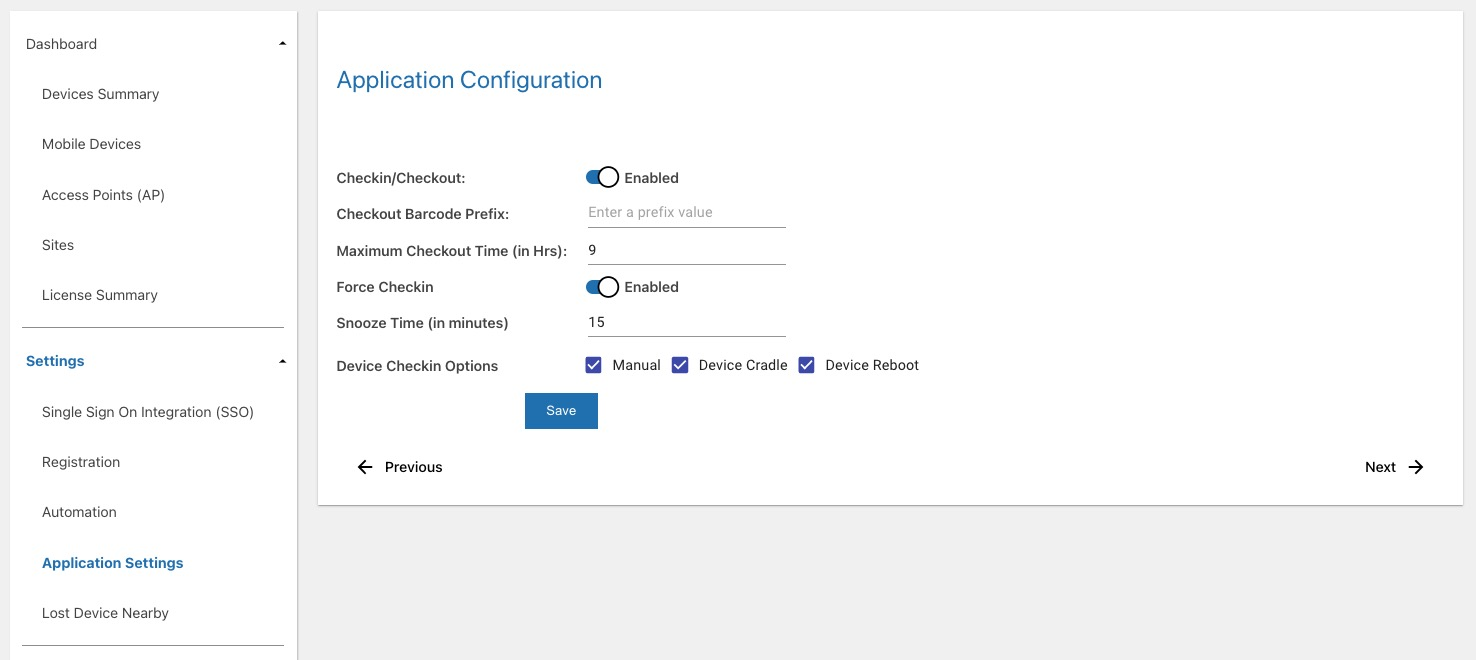
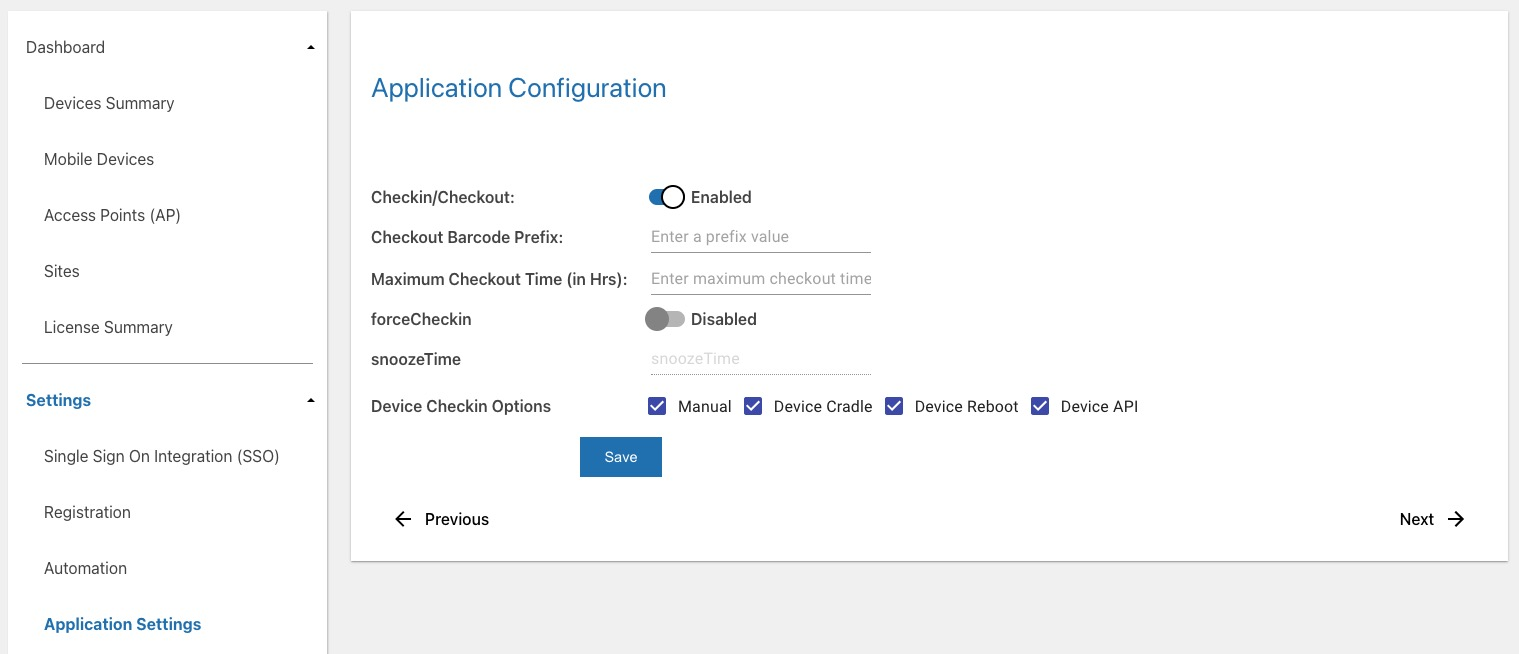
[DLM-24820/DLM-24709] DTRK 5.3 GA - Checkin API & SSO

diff --git a/devicetracker/5-3/guide/config/index.html b/devicetracker/5-3/guide/config/index.html
@@ -376,11 +376,11 @@
 
 <p>Optionally, integrate single sign-on (SSO) in Device Tracker and map SSO roles to access the Device Tracker dashboards on the web portal and device to authenticate manager and administrators with their corporate SSO login credentials. In conjunction, Enterprise Login Screen can be used to control device access and checkout the device using corporate SSO login credentials for accountability. </p>
 
-<p>There are 3 different levels of Device Tracker access based on user role: administrator, manager, or associate. SSO activation allows administrators and managers to login to Device Tracker with their SSO credentials and gain access to their respective <a href="../dashboard">dashboards</a> on the device and web portal. For other users, there is no change in Device Tracker client app access when logging in with their SSO credentials - after logging in, the <a href="../use/#markdevicetofind">To Be Found</a> screen is seen when the client app is launched. SSO credentials are <em>not</em> used for user accountability, only for user authentication to gain device access. <strong><em>Only OAuth 2.0 with PKCE or Mutual-TLS is supported for SSO integration.</em></strong><!-- **_Only OAuth 2.0 using Mutual-TLS client certificates for client authentication is supported for SSO integration._** --></p>
+<p>There are 3 different levels of Device Tracker access based on user role: administrator, manager, or associate. SSO activation allows administrators and managers to login to Device Tracker with their SSO credentials and gain access to their respective <a href="../dashboard">dashboards</a> on the device and web portal. For other users, there is no change in Device Tracker client app access when logging in with their SSO credentials - after logging in, the <a href="../use/#markdevicetofind">To Be Found</a> screen is seen when the client app is launched. SSO credentials are <em>not</em> used for user accountability, only for user authentication to gain device access. </p>
 
 <p><strong>To enforce user accountability and prevent device access until the user logs in with their SSO credentials, install <a href="#enterpriseloginscreenels">Enterprise Login Screen (ELS).</a></strong> User accountability associates the user to the device based on login so the administrator can track device ownership.</p>
 
-<p>When SSO is integrated, by default it uses OAuth 2.0 with PKCE. For integration with Mutual-TLS client certificates, see <a href="#mutualtlscertificategenerationdeployment">Mutual-TLS Certificate Generation &amp; Deployment</a>.</p>
+<p><strong><em>Only OAuth 2.0 with PKCE or Mutual-TLS is supported for SSO integration.</em></strong> When SSO is integrated, by default it uses OAuth 2.0 with PKCE. For integration with Mutual-TLS client certificates, see <a href="#mutualtlscertificategenerationdeployment">Mutual-TLS Certificate Generation &amp; Deployment</a>.</p>
 
 <p><strong>Notes:</strong></p>
 
@@ -444,16 +444,21 @@
 <p>Follow these steps to integrate SSO with Device Tracker - <b><i>it is important to perform the step to <a href="#step-add-sso-user">create an SSO user</a>:</i></b></p>
 
 <ol>
-<li><p>In the browser, launch the Device Tracker web portal using the URL supplied.</p></li>
-
-<li><p>Login using the super administrator credentials provided by Zebra. Enter the <strong>User ID</strong> and <strong>Password.</strong> Click <strong>Log In.</strong>
+<li><p>In the browser, launch the Device Tracker web portal using the URL supplied. Login using the super administrator credentials provided by Zebra. Enter the <strong>User ID</strong> and <strong>Password.</strong> Click <strong>Log In.</strong>
 <img alt="image" style="height:250px" src="portal-login.png"></p></li>
 
 <li><p>After login, click <strong>Settings &gt; Single Sign On Integration (SSO).</strong>
 <img alt="image" style="height:150px" src="sso-toggle.png"></p></li>
 
 <li><p>Toggle <strong>Disabled</strong> to enable SSO integration with OAuth 2.0 Protocol. The SSO configuration page appears.
-<img alt="image" style="height:350px" src="sso-params.png"></p></li>
+<img alt="image" style="height:400px" src="sso-params.jpg"></p></li>
+
+<li><p>For <strong>Client Authentication Type,</strong> select one of the following:</p>
+
+<ul>
+<li><strong>None -</strong> Select this option for PKCE client authentication. If selected, <strong>Proof Key For Code Exchange</strong> is enabled.</li>
+
+<li><strong>Client TLS Certificate -</strong> Select this option for Client TLS Certificate client authentication. If selected, <strong>Proof Key For Code Exchange</strong> is disabled.</li></ul></li>
 
 <li><p>Enter the appropriate information for all fields based on the SSO server settings. If using role-based mapping, enter the information under the <strong>Map SSO Provided Responses</strong> section based on your SSO parameters:</p>
 
@@ -1658,6 +1663,12 @@ c. <strong>IP Address Range Configuration</strong><br>Allow an IP address range 
 <li><strong>Checkin:</strong> At the end of a work shift, the user checks-in the device depending on the <a href="../config/#devicecheckinoptions">Device Checkin Option</a> selected. After checkin, the user is no longer associated with the device.</li>
 </ul>
 
+<p><img alt="image" style="height:400px" src="app-config.jpg"></p>
+
+<p><em>Configure Checkin/Checkout</em></p>
+
+<p>See the following subsections for more information on each of the Checkin/Checkout options.</p>
+
 <h3 id="enablecheckincheckout" class="anchor"><a class="heading-anchor" href="#enablecheckincheckout"><span></span></a>Enable Checkin/Checkout</h3>
 
 <p>Checkin/Checkout is disabled by default. To enable device checkout, access the web portal by entering the URL provided by Zebra in a <a href="../setup/#webportalrequirements">supported browser</a>.</p>
@@ -1671,12 +1682,6 @@ c. <strong>IP Address Range Configuration</strong><br>Allow an IP address range 
 
 <li>Enable <strong>Checkin/Checkout</strong>. Related options are displayed and described in the sections that follow.</li>
 </ol>
-
-<p><img alt="image" style="height:300px" src="app-config.jpg"></p>
-
-<p><em>Configure Checkin/Checkout</em></p>
-
-<p>See the following subsections for more information on each of the Checkin/Checkout options.</p>
 
 <h3 id="checkoutbarcodeprefix" class="anchor"><a class="heading-anchor" href="#checkoutbarcodeprefix"><span></span></a>Checkout Barcode Prefix</h3>
 
@@ -1709,14 +1714,22 @@ c. <strong>IP Address Range Configuration</strong><br>Allow an IP address range 
 <p>Select one or more of the <strong>Device Checkin Options</strong> to specify the action that triggers a <a href="../use/#checkin">device checkin</a> after a device is checked out:</p>
 
 <ul>
-<li><strong>Manual -</strong> the user navigates to the options menu (top right) from the main screen of Device Tracker and selects <strong>Check-In Device</strong></li>
+<li><p><strong>Manual -</strong> the user navigates to the options menu (top right) from the main screen of Device Tracker and selects <strong>Check-In Device</strong></p></li>
 
-<li><strong>Cradle -</strong> the user places the device on a powered cradle to checkin the device</li>
+<li><p><strong>Device Cradle -</strong> the user places the device on a powered cradle to checkin the device</p></li>
 
-<li><strong>Reboot -</strong> the user reboots the device to checkin; required if Checkin/Checkout is enabled</li>
+<li><p><strong>Device Reboot -</strong> the user reboots the device to checkin; required if Checkin/Checkout is enabled</p></li>
+
+<li><p><strong>Device API -</strong> device checkin can be integrated with the Line of Business (LOB) application by calling the Device Tracker checkin API when the user logs out from the LOB app. When the checkin request is received by Device Tracker, it performs the the device checkin and displays the device checkout screen for the next user to checkout the device. Add the following code in the LOB app to checkin the device:</p>
+
+<pre class="prettyprint"><code>Intent signOutIntent = new Intent();
+signOutIntent.setAction("com.zebra.mdna.devicetrackercloud.SIGNOUT_OF_DEVICE");
+signOutIntent.setPackage("com.zebra.mdna.devicetrackercloud");
+sendBroadcast(signOutIntent);
+</code></pre></li>
 </ul>
 
-<p>After device checkin from any of the above methods, the checkout screen appears prompting the user to scan a barcode to gain device access. By default, all 3 options are selected.</p>
+<p>After device checkin from any of the above methods, the checkout screen appears prompting the user to scan a barcode to gain device access. By default, the first 3 options are selected and Device API is unselected.</p>
 
 <hr>
 

diff --git a/devicetracker/5-3/guide/about/index.html b/devicetracker/5-3/guide/about/index.html
@@ -307,7 +307,7 @@
 <h2 id="newindevicetracker53" class="anchor"><a class="heading-anchor" href="#newindevicetracker53"><span></span></a>New in Device Tracker 5.3</h2>
 
 <ul>
-<li><a href="../config/#singlesignonsso">SSO</a> support for OAuth 2.0 with PKCE and user role-based access to Device Tracker</li>
+<li>Added <a href="../config/#singlesignonsso">SSO</a> support for OAuth 2.0 with PKCE and user role-based access to Device Tracker</li>
 
 <li><a href="../config/#enterpriseloginscreenels">Enterprise Login Screen</a> blocks device access until user authenticates to the device with SSO login credentials. <a href="../config/#loginbypass">Login bypass</a> allows a user to gain device access in unexpected situations when SSO login cannot occur.</li>
 
@@ -324,9 +324,16 @@
 
 <li><a href="../config/#configureautomationsettings">Automatic clearing of the “To Be Found” status upon device checkout</a> - If a device is in the “To Be Found” state when it is checked out, it is automatically set back “In Service” (rather than remaining in the “To Be Found” state).</li>
 
-<li><a href="../config/#forcecheckin">Force Checkin</a> option automatically checks in the user when the <strong>Maximum Checkout Time</strong> is reached. If a <a href="../config/#snoozetime">Snooze Time</a> is specified, it extends the maximum checkout time to allow the user to complete their task.</li>
+<li>New checkin options:
 
-<li><a href="../config/#gpslocation">GPS Location</a> provides the GPS coordinates of the device and pinpoints the device location on a map.</li>
+
+<ul>
+<li><a href="../config/#forcecheckin">Force Checkin</a> automatically checks in the user when the <strong>Maximum Checkout Time</strong> is reached. If a <a href="../config/#snoozetime">Snooze Time</a> is specified, it extends the maximum checkout time to allow the user to complete their task.</li>
+
+<li><strong>Device API</strong> can be used to integrate device checkin when a user logs out from the Line of Business (LOB) application; see <a href="../config/#devicecheckinoptions">Device Checkin Options</a>.</li></ul>
+</li>
+
+<li><a href="../config/#gpslocation">GPS Location</a> provides GPS coordinates of the device and pinpoints the device location on a map.</li>
 
 <li>A wildcard character "*" is now acceptable for the last digit of the last octet to register multiple APs at once which have the same MAC address aside from the last digit; see <a href="../config/#manageaccesspoints">Manage Access Points</a>.</li>
 

diff --git a/devicetracker/index.html b/devicetracker/index.html
@@ -19,7 +19,7 @@
     <meta title="Device Tracker" />
     <meta
       http-equiv="refresh"
-      content="0; url=/devicetracker/5-2/guide/about"
+      content="0; url=/devicetracker/5-3/guide/about"
     />
     <title>Device Tracker - Zebra Technologies TechDocs</title>
     <!-- core CSS -->
